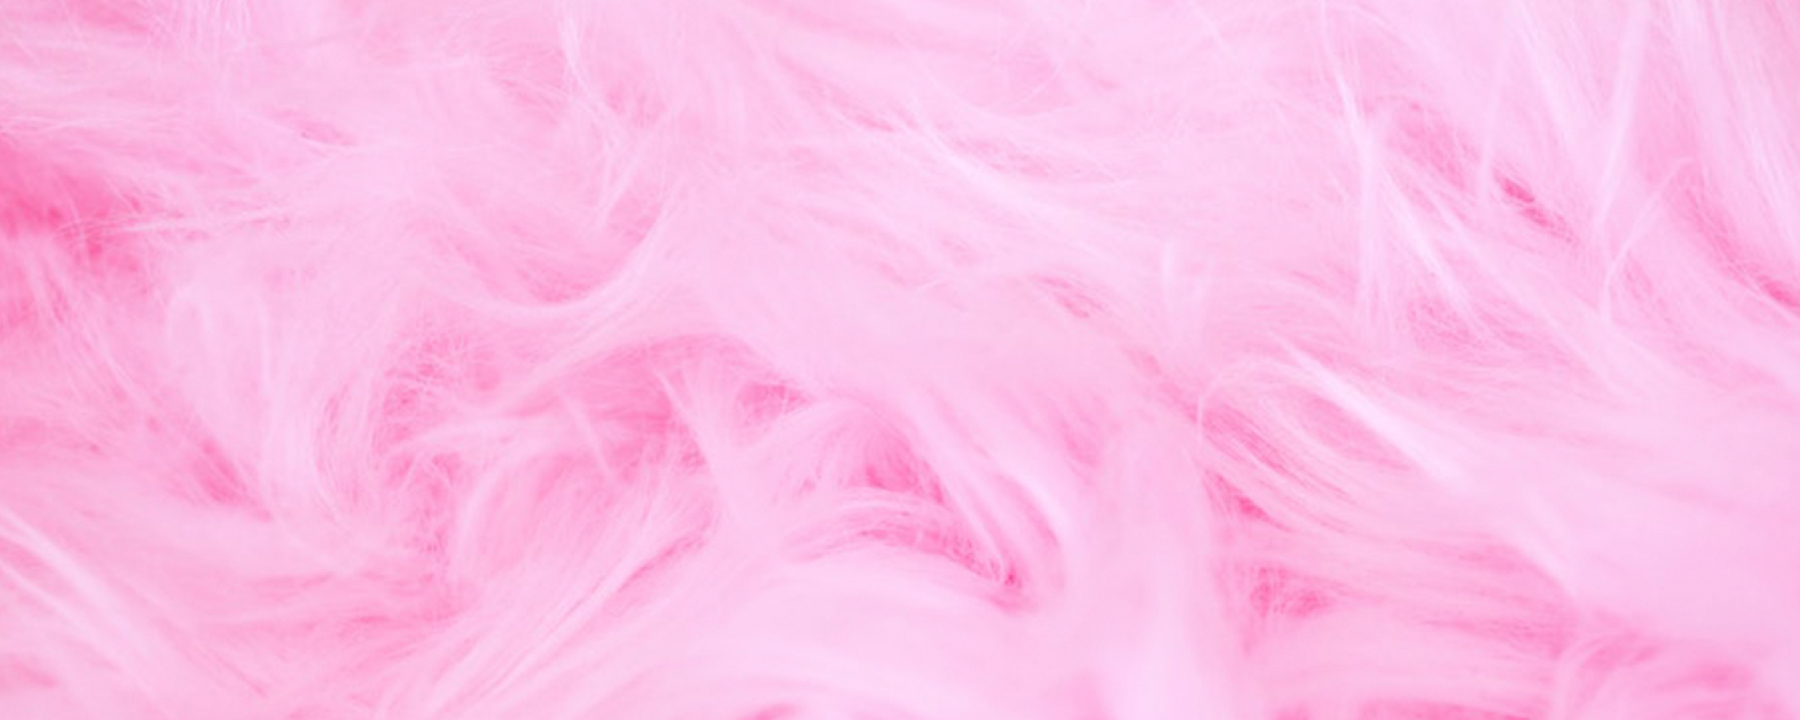
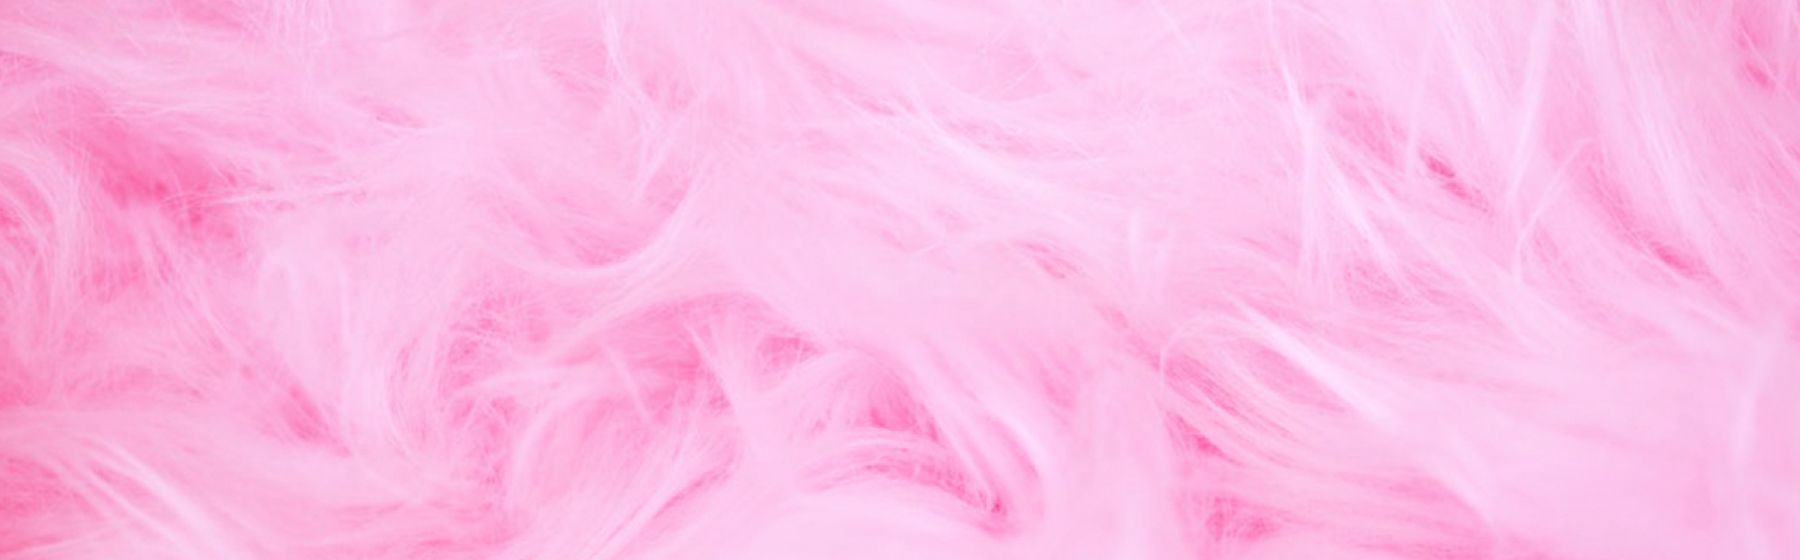
Fix Issue #110 [CLOSET] - Se reduce el alto del cover de las usuarias. Nueva medida 1800*560

diff --git a/static/css/main.css b/static/css/main.css
@@ -4618,8 +4618,8 @@ body {
 	User Profile avatar edit
 \*------------------------------------*/
 .user-data__avatar {
-  width: 180px;
-  height: 180px;
+  width: 160px;
+  height: 160px;
   margin: 0 auto;
   overflow: hidden;
   border: 5px solid #f65a66;
@@ -4628,7 +4628,7 @@ body {
   .user-data__avatar .profile__letter {
     display: block;
     width: 100%;
-    line-height: 170px;
+    line-height: 160px;
     text-align: center;
     color: #fff;
     font-size: 90px;

diff --git a/dev/scss/block/_profile-user.scss b/dev/scss/block/_profile-user.scss
@@ -112,8 +112,8 @@
 \*------------------------------------*/
 
   .user-data__avatar {
-    width: 180px;
-    height: 180px;
+    width: 160px;
+    height: 160px;
     margin: 0 auto;
     overflow: hidden;
     border: 5px solid $c-brand;
@@ -122,7 +122,7 @@
     .profile__letter {
       display: block;
       width: 100%;
-      line-height: 170px;
+      line-height: 160px;
       text-align: center;
       color: $c-neutro;
       @include font-rem(90px);
